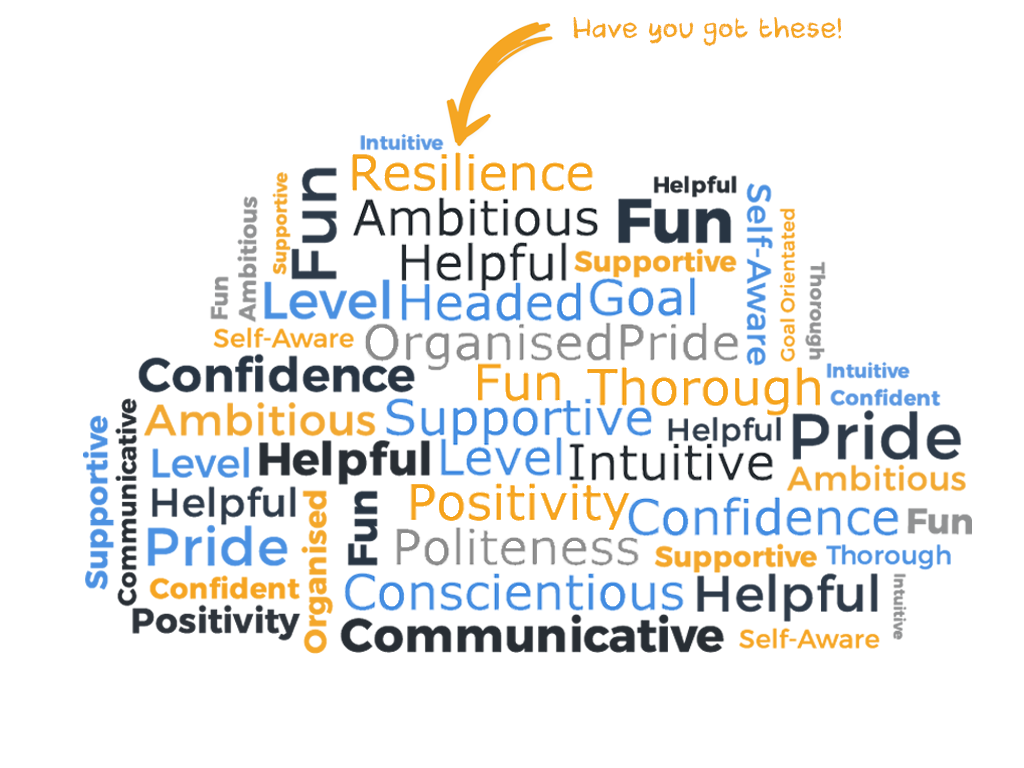
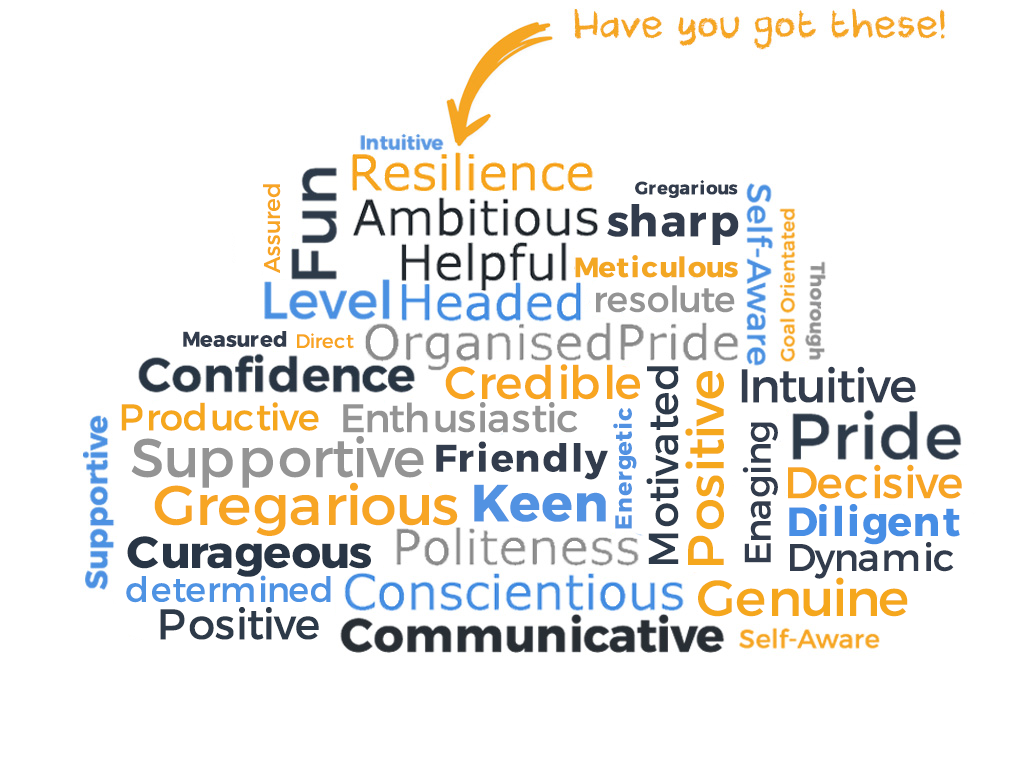
New images and layout for Oil & Gas

diff --git a/wp-content/themes/lightsourcepeople/page-oil.php b/wp-content/themes/lightsourcepeople/page-oil.php
@@ -14,10 +14,8 @@ get_header(); ?>
     <div class="container-fluid sector-top">
         <div class="container lsp-divider">
             <div class="row">
-                <div class="col-md-5">
-                    <img src="<?php echo get_template_directory_uri() ?>/images/sectors.png" class="img-responsive">
-                </div>
-                <div class="col-md-7">
+                
+                <div class="col-md-12">
                     <h1>Oil & Gas</h1>
                     <div class="summary">
 Light Source People provides talent solutions to the global Upstream and Downstream Oil & Gas sectors.  From FEED, through detailed design, EPC, construction, commissioning, and on to production/operations and maintenance, Light Source People has the knowledge and network to staff your projects wherever they may be situated.  Our staff have supplied both permanent and contract talent solutions to many of the world’s leading Operators, Service and EPC companies, and have built up a great deal of experience along the way.  With a focus on mobilisation and compliance we ensure that our placements are able to concentrate on making a valuable contribution to their employers projects.
@@ -30,6 +28,10 @@ With scalable solutions individually tailored to our customer’s needs, Light S
                     </div>
 
                 </div>
+
+                <div class="col-md-12">
+                    <img src="<?php echo get_template_directory_uri() ?>/images/oil-gas.png" class="img-responsive">
+                </div>
             </div>
         </div>
     </div><!--/sector top-->
@@ -39,7 +41,7 @@ With scalable solutions individually tailored to our customer’s needs, Light S
     <div class="container-fluid sector-middle">
         <div class="container lsp-divider">
             <div class="row">
-                <div class="col-md-6">
+                <div class="col-md-12">
                     <!-- <h1>Leading Renewable Recruitment</h1> -->
                     <!-- <div class="summary">
                         Statistics
@@ -53,9 +55,9 @@ With an emphasis on delivery through listening and truly understanding our custo
 
 
                 </div>
-                <div class="col-md-6">
+                <!-- <div class="col-md-6">
                     <img src="<?php echo get_template_directory_uri() ?>/images/sectors-1.png" class="img-responsive chart">
-                </div>
+                </div> -->
             </div>
         </div>
     </div><!--/sector middle-->

diff --git a/wp-content/themes/lightsourcepeople/page-nuclear.php b/wp-content/themes/lightsourcepeople/page-nuclear.php
@@ -15,7 +15,7 @@ get_header(); ?>
         <div class="container lsp-divider">
             <div class="row">
                 <div class="col-md-5">
-                    <img src="<?php echo get_template_directory_uri() ?>/images/sectors.png" class="img-responsive">
+                    <img src="<?php echo get_template_directory_uri() ?>/images/nuclear.png" class="img-responsive">
                 </div>
                 <div class="col-md-7">
                     <h1>Nuclear Power</h1>
